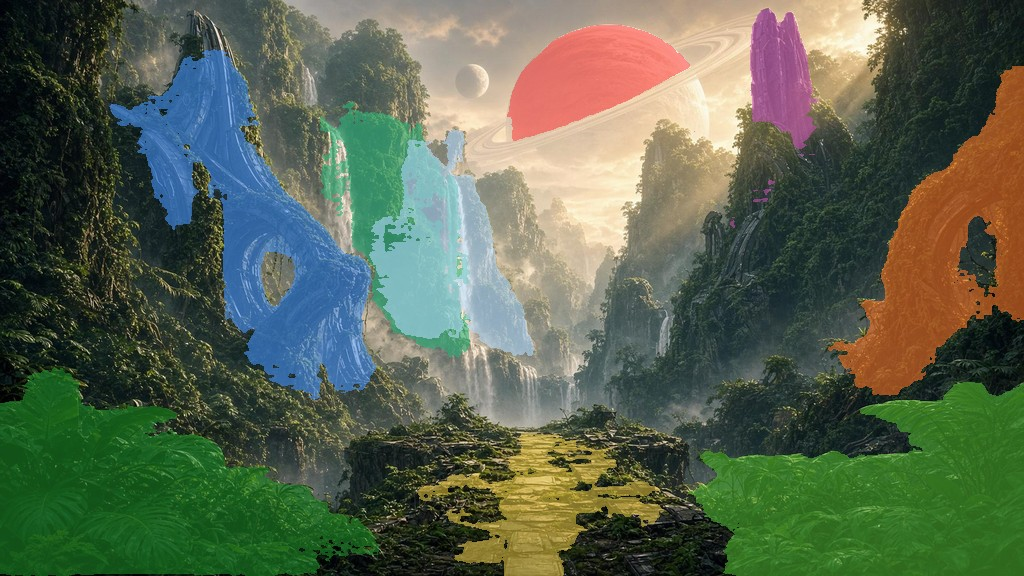
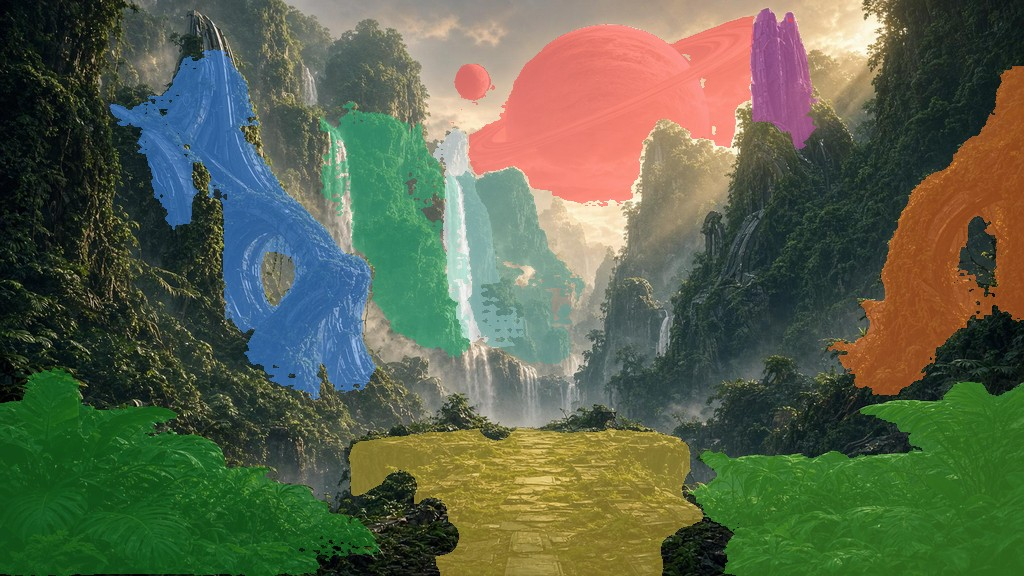
Zone C masks: full deck, water split from rock, planet with rings and moon.
The causeway reaches the lips. The centre fall is no longer one blob.
The planet mask keeps the disk, the rings and the moon.

Changed region(s): [[0.3438, 0.0312, 0.75, 0.625], [0.3438, 0.7188, 0.6875, 1.0]]

diff --git a/tools/terrain-from-key/sam_masks.py b/tools/terrain-from-key/sam_masks.py
@@ -23,25 +23,49 @@ import vision_models  # noqa: E402
 
 # x0, y0, x1, y1 in frame fractions. Tight on purpose.
 BOXES = {
-    "causeway": (0.40, 0.73, 0.64, 0.98),
+    "causeway": (0.34, 0.72, 0.70, 0.99),
     "arch-left": (0.08, 0.10, 0.36, 0.70),
     "arch-right": (0.78, 0.08, 0.995, 0.68),
     "cliff-left": (0.22, 0.08, 0.46, 0.62),
-    "falls-center": (0.36, 0.18, 0.52, 0.62),
+    "falls-water": (0.40, 0.22, 0.50, 0.62),
+    "gorge-rock": (0.34, 0.22, 0.58, 0.64),
     "cliff-right": (0.58, 0.02, 0.80, 0.62),
     "foliage-left": (0.00, 0.58, 0.40, 1.00),
     "foliage-right": (0.60, 0.55, 1.00, 1.00),
-    "planet": (0.42, 0.00, 0.82, 0.40),
+    "planet": (0.42, 0.04, 0.82, 0.34),
 }
 
-# Point prompts (x, y, label) that replaced a loose box after the hand check.
-# Planet: the disk only, not the sky. Right spire: the tall shaft, not the lower mass.
+# Point prompts (x, y, label). 1 keeps that pixel, 0 rejects it.
 POINTS = {
-    "planet": [(0.615, 0.16, 1), (0.72, 0.04, 0), (0.50, 0.06, 0), (0.78, 0.12, 0)],
+    "causeway": [
+        (0.50, 0.86, 1), (0.46, 0.80, 1), (0.56, 0.80, 1),
+        (0.40, 0.78, 1), (0.63, 0.78, 1), (0.50, 0.75, 1), (0.50, 0.94, 1),
+        (0.10, 0.88, 0), (0.90, 0.86, 0), (0.50, 0.66, 0),
+        (0.32, 0.84, 0), (0.72, 0.84, 0),
+    ],
+    "falls-water": [
+        (0.445, 0.30, 1), (0.445, 0.40, 1), (0.445, 0.50, 1),
+        (0.38, 0.36, 0), (0.52, 0.40, 0), (0.445, 0.16, 0),
+    ],
+    "gorge-rock": [
+        (0.40, 0.34, 1), (0.51, 0.36, 1), (0.48, 0.50, 1),
+        (0.445, 0.34, 0), (0.445, 0.48, 0), (0.48, 0.14, 0),
+    ],
+    "planet": [
+        (0.62, 0.16, 1), (0.55, 0.20, 1), (0.70, 0.16, 1), (0.475, 0.15, 1),
+        (0.62, 0.02, 0), (0.50, 0.03, 0), (0.74, 0.03, 0),
+        (0.76, 0.07, 0), (0.30, 0.08, 0), (0.88, 0.08, 0), (0.62, 0.38, 0),
+    ],
     "cliff-right": [(0.735, 0.12, 1), (0.70, 0.42, 0), (0.78, 0.48, 0)],
 }
+# Planet, rings and moon are separate blobs. Do not drop them as "small components".
+KEEP_ALL = {"planet"}
 POINT_BOX = {
     "cliff-right": (0.66, 0.02, 0.80, 0.40),
+    "falls-water": (0.40, 0.20, 0.50, 0.62),
+    "gorge-rock": (0.34, 0.24, 0.58, 0.62),
+    "causeway": (0.34, 0.72, 0.70, 0.99),
+    "planet": (0.42, 0.04, 0.82, 0.34),
 }
 
 COLOURS = {
@@ -49,12 +73,46 @@ COLOURS = {
     "arch-left": (70, 150, 255),
     "arch-right": (255, 120, 40),
     "cliff-left": (40, 180, 120),
-    "falls-center": (180, 220, 255),
+    "falls-water": (230, 245, 255),
+    "gorge-rock": (90, 160, 150),
     "cliff-right": (200, 80, 180),
     "foliage-left": (30, 140, 40),
     "foliage-right": (80, 180, 50),
-    "planet": (255, 230, 180),
+    "planet": (255, 70, 70),
 }
+
+
+def _union_covering(masks, scores, xy, labels):
+    """Union the best mask for each positive point, so rings and the moon survive."""
+    order = list(np.argsort(-scores))
+    acc = np.zeros(masks[0].shape, np.bool_)
+    positives = xy[labels == 1]
+    for px, py in positives:
+        ix, iy = int(px), int(py)
+        chosen = None
+        for k in order:
+            m = masks[k].astype(bool)
+            if 0 <= iy < m.shape[0] and 0 <= ix < m.shape[1] and m[iy, ix]:
+                # reject a candidate that also covers a negative point
+                neg = xy[labels == 0]
+                hit_neg = False
+                for nx, ny in neg:
+                    nix, niy = int(nx), int(ny)
+                    if 0 <= niy < m.shape[0] and 0 <= nix < m.shape[1] and m[niy, nix]:
+                        hit_neg = True
+                        break
+                if not hit_neg:
+                    chosen = m
+                    break
+        if chosen is None:
+            for k in order:
+                m = masks[k].astype(bool)
+                if 0 <= iy < m.shape[0] and 0 <= ix < m.shape[1] and m[iy, ix]:
+                    chosen = m
+                    break
+        if chosen is not None:
+            acc |= chosen
+    return acc
 
 
 def main():
@@ -85,21 +143,51 @@ def main():
                 b = POINT_BOX[name]
                 kw["box"] = np.array([b[0] * iw, b[1] * ih, b[2] * iw, b[3] * ih], np.float32)
             masks, scores, _ = pred.predict(**kw)
+            if name == "planet":
+                mask = np.zeros((ih, iw), np.bool_)
+                neg = xy[labels == 0]
+                best_scores = []
+                for px, py in xy[labels == 1]:
+                    one = np.concatenate([np.array([[px, py]], np.float32), neg], axis=0)
+                    one_labels = np.concatenate([np.array([1], np.int32), np.zeros(len(neg), np.int32)])
+                    kw = dict(point_coords=one, point_labels=one_labels, multimask_output=True)
+                    b = POINT_BOX["planet"]
+                    kw["box"] = np.array([b[0] * iw, b[1] * ih, b[2] * iw, b[3] * ih], np.float32)
+                    masks, scores, _ = pred.predict(**kw)
+                    piece = _union_covering(masks, scores, one, one_labels)
+                    mask |= piece
+                    best_scores.append(float(np.max(scores)))
+                scores = np.array(best_scores if best_scores else [0.0])
+            else:
+                k = int(np.argmax(scores))
+                mask = masks[k].astype(bool)
+                scores = scores
+                k = k
         else:
             box = np.array([x0 * iw, y0 * ih, x1 * iw, y1 * ih], np.float32)
             masks, scores, _ = pred.predict(box=box, multimask_output=True)
-        k = int(np.argmax(scores))
-        mask = masks[k].astype(bool)
-        nlab, labels, stats, _ = cv2.connectedComponentsWithStats(mask.astype(np.uint8), 8)
-        if nlab > 1:
-            keep = 1 + int(np.argmax(stats[1:, cv2.CC_STAT_AREA]))
-            mask = labels == keep
+            k = int(np.argmax(scores))
+            mask = masks[k].astype(bool)
+        if name not in KEEP_ALL:
+            nlab, labels, stats, _ = cv2.connectedComponentsWithStats(mask.astype(np.uint8), 8)
+            if nlab > 1:
+                keep = 1 + int(np.argmax(stats[1:, cv2.CC_STAT_AREA]))
+                mask = labels == keep
+        score = float(np.max(scores))
+        if name == "causeway":
+            # Fill gaps between slabs. Close does not grow the outer lip.
+            kernel = cv2.getStructuringElement(cv2.MORPH_ELLIPSE, (31, 31))
+            mask = cv2.morphologyEx(mask.astype(np.uint8), cv2.MORPH_CLOSE, kernel).astype(bool)
+            flood = np.pad(mask.astype(np.uint8), 1, constant_values=0)
+            cv2.floodFill(flood, np.zeros((flood.shape[0] + 2, flood.shape[1] + 2), np.uint8), (0, 0), 2)
+            holes = flood[1:-1, 1:-1] == 0
+            mask = mask | holes
         area = float(mask.mean())
         Image.fromarray((mask.astype(np.uint8) * 255)).save(args.out / f"mask-{name}.png")
         colour = np.array(COLOURS[name], np.float32)
         overlay[mask] = overlay[mask] * 0.45 + colour * 0.55
-        rows.append({"id": name, "box": [x0, y0, x1, y1], "score": float(scores[k]), "area": area})
-        print(name, "score", round(float(scores[k]), 3), "area", round(area, 3), flush=True)
+        rows.append({"id": name, "box": [x0, y0, x1, y1], "score": score, "area": area})
+        print(name, "score", round(score, 3), "area", round(area, 3), flush=True)
     Image.fromarray(overlay.astype(np.uint8)).save(args.out / "masks-overlay.jpg", quality=90)
     (args.out / "masks.json").write_text(json.dumps({"model": "sam2.1-hiera-small", "licence": "Apache-2.0", "size": [iw, ih], "masks": rows}, indent=2))
 

diff --git a/steps/zone-c/02-masks/REPORT.md b/steps/zone-c/02-masks/REPORT.md
@@ -1,20 +1,16 @@
 # Zone C — masks
 
-SAM 2.1 Hiera small (Apache-2.0). Hand-checked on `masks-overlay.jpg`. Largest component only.
+SAM 2.1 Hiera small. Hand-checked on `masks-overlay.jpg`.
 
-| Mask | What it is | Note |
-|---|---|---|
-| causeway | stone ribbon | central slabs, not the full lip |
-| arch-left | left ring | the hole stays open; some cliff above the ring is included |
-| arch-right | right ring | |
-| cliff-left | left fall and its cliff | |
-| falls-center | main fall and the cliff beside it | water and rock still share this mask |
-| cliff-right | right spire | shaft only, point prompt |
-| foliage-left / foliage-right | foreground plants | instance sources, not one solid |
-| planet | planet disk | rings and the moon are outside the mask |
+Corrected after the first pass:
 
-These masks name the solids. They are not a mesh, and they have not passed `object-gate`.
+| Mask | Correction |
+|---|---|
+| causeway | Full width of the deck, lips included. Gaps between slabs filled. Foreground leaves stay out. |
+| falls-water | The white water of the centre fall, not the rock. |
+| gorge-rock | The cliff beside that water. |
+| planet | Disk, rings and the moon. A little haze sits under the disk. The sky cap is out. |
 
-```bash
-python3 tools/terrain-from-key/sam_masks.py --image key-zc1.jpg --out steps/zone-c/02-masks
-```
+The other masks are unchanged: both arches (the left hole stays open), left cliff, right spire, two foliage masses.
+
+Not a mesh. Not an object-gate pass.

diff --git a/tools/terrain-from-key/README.md b/tools/terrain-from-key/README.md
@@ -10,6 +10,7 @@ Zone B heightfield from the key image. Method and steps: [`docs/METHOD/terrain-f
 | `geom.py` | Camera axes and rays (convention checked at start). |
 | `moge_ground.py` | MoGe-2 metric plane on the causeway: eye height, pitch, field of view. |
 | `sam_masks.py` | SAM2 small masks for the solids in one key still. |
+| `causeway_field.py` | Zone C deck only. Does not run the dune composer. |
 | `camera_solve.py` | LSD / lip attempt. Rejected on Zone C (moss breaks the lips). MoGe is the lock. |
 | `gates.py` | Terrain gates (silhouette, depth order, features, LOD pop, approach, repetition, corridor, vertex cost). |
 | `features.json` | Named features the gate checks. |
